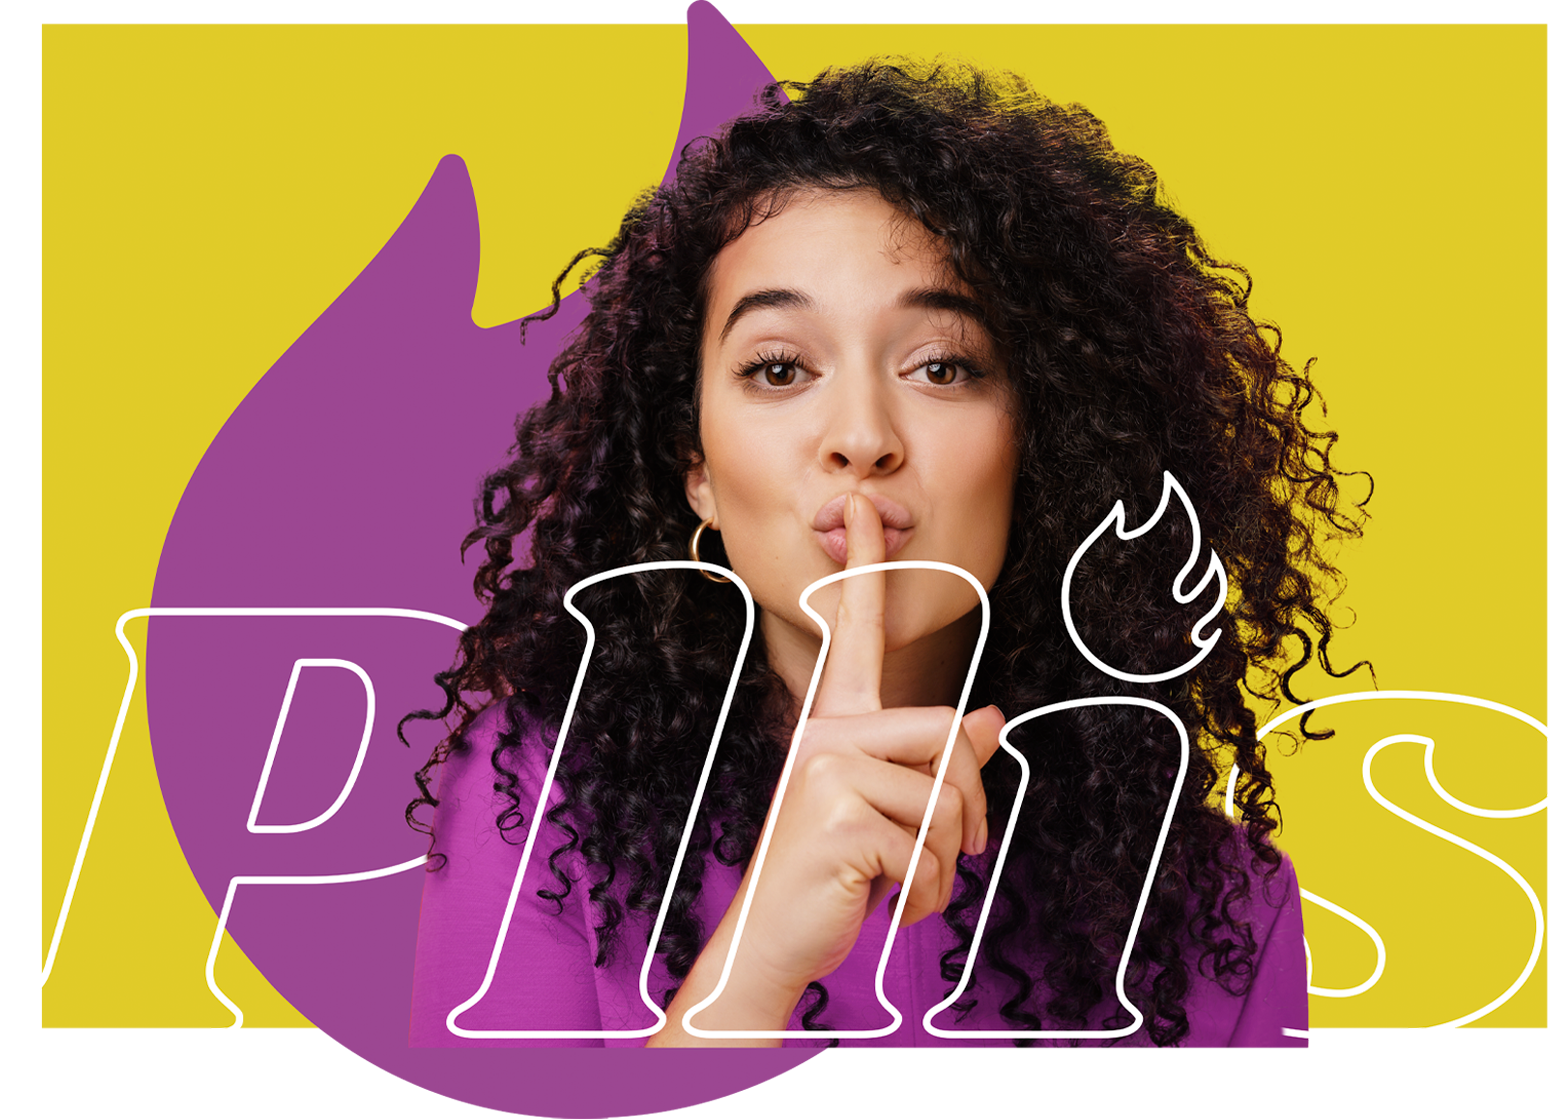
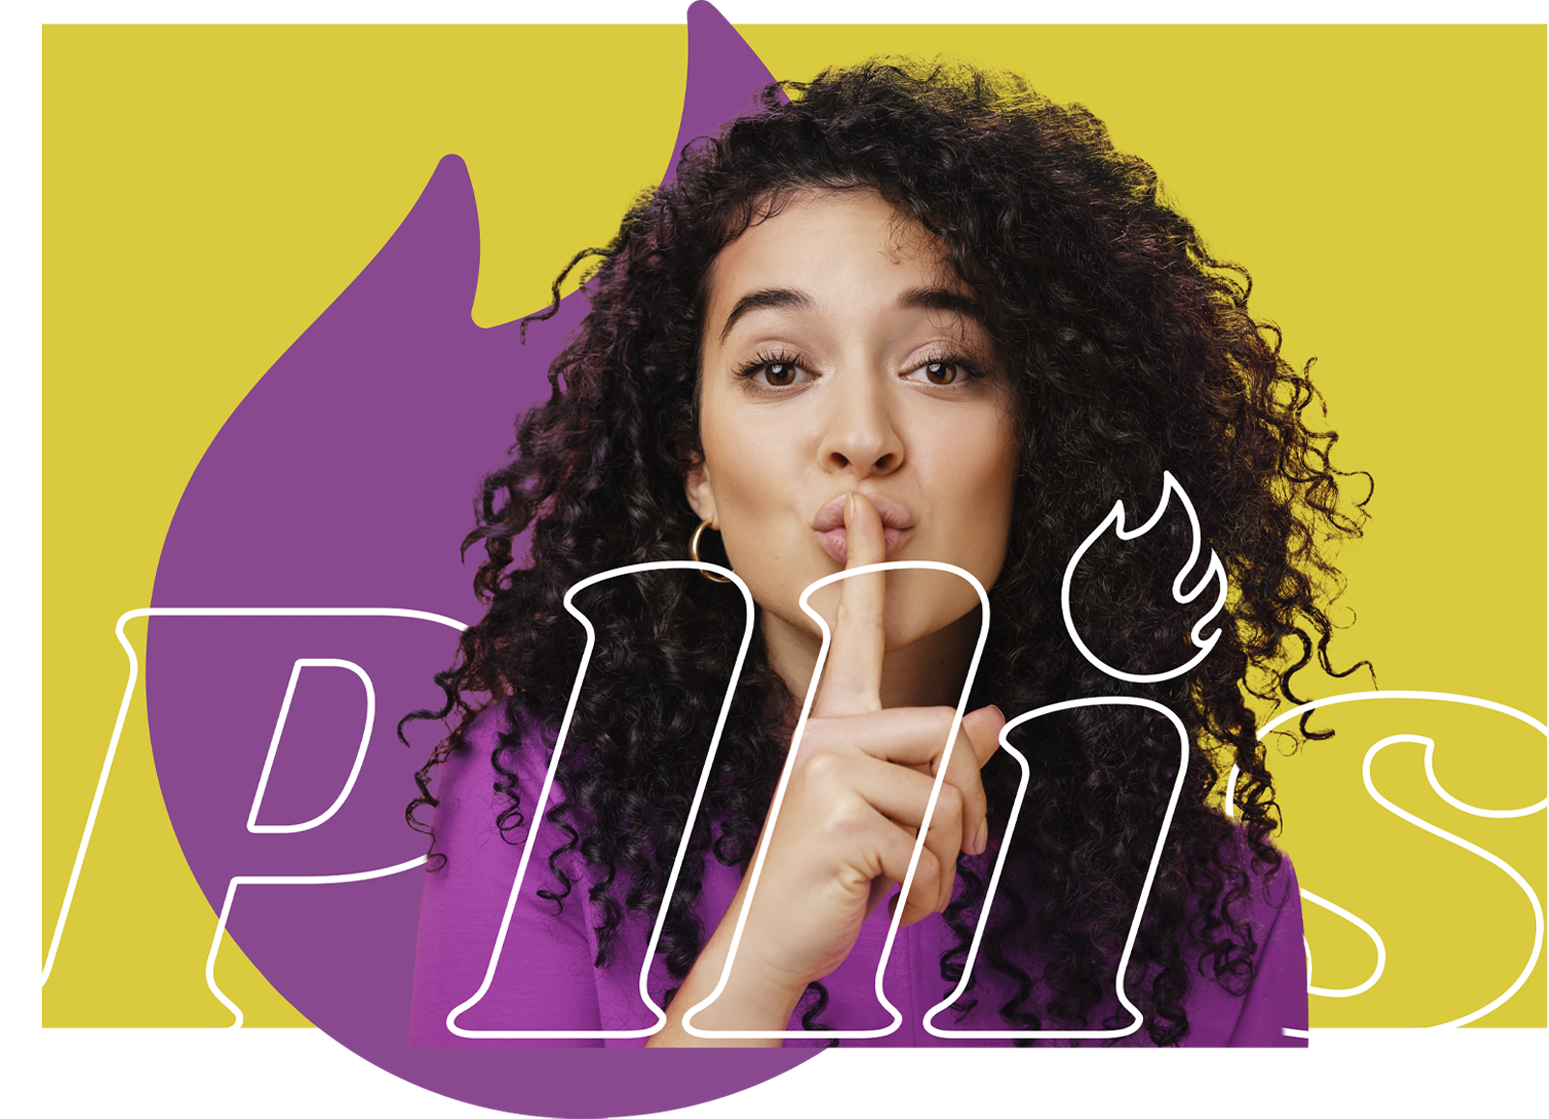
troca cor

Changed region(s): [[0.2789, 0.6685, 0.3719, 0.9115]]

diff --git a/src/app/tela-lojista/tela-lojista.component.min.css b/src/app/tela-lojista/tela-lojista.component.min.css
@@ -1,1 +1,1 @@
-img{max-width:100%}button,.cs-logo-home{cursor:pointer}.cs-acoes{display:flex;justify-content:center;align-items:center;gap:25px;flex-wrap:wrap}.cs-header{display:flex;justify-content:space-between;align-items:center;padding:20px 50px;background-color:#502253;color:#fff}.cs-header img{max-height:50px}.cs-header button{background-color:transparent;border:0}.cs-img__pllis-alt{max-width:40%}.cs-container{max-width:800px;display:flex;flex-direction:column;justify-content:center;gap:25px}.cs-description{display:flex;justify-content:center;align-items:center;gap:75px;flex-wrap:wrap}.cs-description h2{max-width:200px;text-wrap:balance;text-align:end}.cs-description .cs-text{color:#000}.cs-text{font-size:1rem;font-weight:500}.cs-strong{font-weight:700 !important}.cs-strong__caption{font-size:.875rem;font-weight:900 !important;text-wrap:balance}.cs-title,.cs-subtitle,.cs-subtitle__white,.cs-subtitle__pink,.cs-button{font-family:"Shrikhand", serif;font-style:normal;text-wrap:balance;line-height:1}.cs-subtitle,.cs-subtitle__white,.cs-subtitle__pink{font-size:2rem;font-weight:400;color:#e0cb28}.cs-subtitle__white{color:#fff}.cs-subtitle__pink{color:#924a97}.cs-text{font-family:"Roboto", sans-serif;font-style:normal;line-height:1.5;font-weight:200;color:#fff}.cs-text__gap{display:flex;flex-direction:column;gap:25px}[class^="cs-section-"]{display:flex;justify-content:center;align-items:center;width:100%;padding:100px}.cs-cadastrar-loja{display:flex;flex-direction:column;gap:25px;align-items:center;justify-content:center}.cs-cadastrar-loja .cs-button{background-color:#924a97;color:#fff;padding:10px 25px;border-radius:50px;font-size:2rem;border:0;cursor:pointer}.cs-cadastrar-loja .cs-button:hover{background-color:#502253}.cs-sidebar{min-height:max-content;display:flex;flex-direction:column;align-items:center;justify-content:flex-end;gap:10px;max-width:300px;width:100%;background-color:#924a97;padding:20px}.cs-download{background-color:transparent;display:flex;align-items:center;justify-content:center;gap:8px;color:#fff;border-radius:50px;border:1px solid #fff;padding:10px 25px}.cs-download:hover{background-color:#fff;color:#924a97}.cs-download:hover svg{fill:#924a97}.cs-download__text{font-size:.75rem;font-weight:500}.cs-download__store{font-size:1rem;font-weight:600}[class^="cs-subtitle"]{line-height:1.4}.cs-section-1{background-color:#e0cb28;padding:0;justify-content:space-between;align-items:stretch;position:relative;gap:50px;flex-wrap:wrap-reverse}.cs-section-1 .cs-title{position:absolute;font-size:clamp(2rem, 5vw, 5rem);font-weight:500;color:#fff;top:25%;left:8%}.cs-section-1 .cs-title span{background-color:#502253;margin-bottom:10px;display:inline-block}.cs-section-1 .cs-title p:nth-child(1){margin-left:80px}.cs-section-1 .cs-title p:nth-child(2){margin-left:40px}.cs-section-1 img{max-width:70%;max-height:100vh}.cs-section-2{background-color:#502253}.cs-section-2 .cs-container{flex-direction:row;align-items:center;gap:75px;flex-wrap:wrap}.cs-section-2 .cs-container>*{flex:1 1 20%}.cs-section-3{background-color:#e0cb28}.cs-section-3 .cs-container{align-items:center}.cs-section-3 .cs-text{font-size:1rem}@media screen and (max-width: 768px){.cs-img__pllis-alt{max-width:60%}[class^="cs-section-"]{padding:20px}.cs-section-1{padding:0;align-items:stretch;justify-items:stretch}.cs-section-1 img{padding:20px;margin:0 auto}.cs-section-1 .cs-title{position:relative;margin:0 auto;left:0}.cs-section-1 .cs-sidebar{width:100%;min-width:100%}}@media screen and (max-width: 1166px){.cs-section-1 img{margin-left:auto}.cs-section-1 .cs-sidebar{width:100%;min-width:100%}}
+img{max-width:100%}button,.cs-logo-home{cursor:pointer}.cs-acoes{display:flex;justify-content:center;align-items:center;gap:25px;flex-wrap:wrap}.cs-header{display:flex;justify-content:space-between;align-items:center;padding:20px 50px;background-color:#502253;color:#fff}.cs-header img{max-height:50px}.cs-header button{background-color:transparent;border:0}.cs-img__pllis-alt{max-width:40%}.cs-container{max-width:800px;display:flex;flex-direction:column;justify-content:center;gap:25px}.cs-description{display:flex;justify-content:center;align-items:center;gap:75px;flex-wrap:wrap}.cs-description h2{max-width:200px;text-wrap:balance;text-align:end}.cs-description .cs-text{color:#000}.cs-text{font-size:1rem;font-weight:500}.cs-strong{font-weight:700 !important}.cs-strong__caption{font-size:.875rem;font-weight:900 !important;text-wrap:balance}.cs-title,.cs-subtitle,.cs-subtitle__white,.cs-subtitle__pink,.cs-button{font-family:"Shrikhand", serif;font-style:normal;text-wrap:balance;line-height:1}.cs-subtitle,.cs-subtitle__white,.cs-subtitle__pink{font-size:2rem;font-weight:400;color:#d9ca3f}.cs-subtitle__white{color:#fff}.cs-subtitle__pink{color:#924a97}.cs-text{font-family:"Roboto", sans-serif;font-style:normal;line-height:1.5;font-weight:200;color:#fff}.cs-text__gap{display:flex;flex-direction:column;gap:25px}[class^="cs-section-"]{display:flex;justify-content:center;align-items:center;width:100%;padding:100px}.cs-cadastrar-loja{display:flex;flex-direction:column;gap:25px;align-items:center;justify-content:center}.cs-cadastrar-loja .cs-button{background-color:#924a97;color:#fff;padding:10px 25px;border-radius:50px;font-size:2rem;border:0;cursor:pointer}.cs-cadastrar-loja .cs-button:hover{background-color:#502253}.cs-sidebar{min-height:max-content;display:flex;flex-direction:column;align-items:center;justify-content:flex-end;gap:10px;max-width:300px;width:100%;background-color:#924a97;padding:20px}.cs-download{background-color:transparent;display:flex;align-items:center;justify-content:center;gap:8px;color:#fff;border-radius:50px;border:1px solid #fff;padding:10px 25px}.cs-download:hover{background-color:#fff;color:#924a97}.cs-download:hover svg{fill:#924a97}.cs-download__text{font-size:.75rem;font-weight:500}.cs-download__store{font-size:1rem;font-weight:600}[class^="cs-subtitle"]{line-height:1.4}.cs-section-1{background-color:#d9ca3f;padding:0;justify-content:space-between;align-items:stretch;position:relative;gap:50px;flex-wrap:wrap-reverse}.cs-section-1 .cs-title{position:absolute;font-size:clamp(2rem, 5vw, 5rem);font-weight:500;color:#fff;top:25%;left:8%}.cs-section-1 .cs-title span{background-color:#502253;margin-bottom:10px;display:inline-block}.cs-section-1 .cs-title p:nth-child(1){margin-left:80px}.cs-section-1 .cs-title p:nth-child(2){margin-left:40px}.cs-section-1 img{max-width:70%;max-height:100vh}.cs-section-2{background-color:#502253}.cs-section-2 .cs-container{flex-direction:row;align-items:center;gap:75px;flex-wrap:wrap}.cs-section-2 .cs-container>*{flex:1 1 20%}.cs-section-3{background-color:#d9ca3f}.cs-section-3 .cs-container{align-items:center}.cs-section-3 .cs-text{font-size:1rem}@media screen and (max-width: 768px){.cs-img__pllis-alt{max-width:60%}[class^="cs-section-"]{padding:20px}.cs-section-1{padding:0;align-items:stretch;justify-items:stretch}.cs-section-1 img{padding:20px;margin:0 auto}.cs-section-1 .cs-title{position:relative;margin:0 auto;left:0}.cs-section-1 .cs-sidebar{width:100%;min-width:100%}}@media screen and (max-width: 1166px){.cs-section-1 img{margin-left:auto}.cs-section-1 .cs-sidebar{width:100%;min-width:100%}}

diff --git a/src/app/landing-page/landing-page.component.min.css b/src/app/landing-page/landing-page.component.min.css
@@ -1,1 +1,1 @@
-img{max-width:100%}button,.cs-logo-home{cursor:pointer}.cs-acoes{display:flex;justify-content:center;align-items:center;gap:25px;flex-wrap:wrap}.cs-header{display:flex;justify-content:space-between;align-items:center;padding:20px 50px;background-color:#502253;color:#fff}.cs-header img{max-height:50px}.cs-header button{background-color:transparent;border:0}.cs-img__pllis-alt{max-width:40%}.cs-container{max-width:800px;display:flex;flex-direction:column;justify-content:center;gap:25px}.cs-description{display:flex;justify-content:center;align-items:center;gap:75px;flex-wrap:wrap}.cs-description h2{max-width:200px;text-wrap:balance;text-align:end}.cs-description .cs-text{color:#000}.cs-text{font-size:1rem;font-weight:500}.cs-strong{font-weight:700 !important}.cs-strong__caption{font-size:.875rem;font-weight:900 !important;text-wrap:balance}.cs-title,.cs-subtitle,.cs-subtitle__white,.cs-subtitle__pink{font-family:"Shrikhand", serif;font-style:normal;text-wrap:balance;line-height:1}.cs-subtitle,.cs-subtitle__white,.cs-subtitle__pink{font-size:2rem;font-weight:400;color:#e0cb28}.cs-subtitle__white{color:#fff}.cs-subtitle__pink{color:#924a97}.cs-text{font-family:"Roboto", sans-serif;font-style:normal;line-height:1.5;font-weight:200;color:#fff}.cs-text__gap{display:flex;flex-direction:column;gap:25px}[class^="cs-section-"]{display:flex;justify-content:center;align-items:center;width:100%;padding:100px}.cs-sidebar{min-height:max-content;display:flex;flex-direction:column;align-items:center;justify-content:flex-end;gap:10px;max-width:300px;width:100%;background-color:#924a97;padding:20px}.cs-download{background-color:transparent;display:flex;align-items:center;justify-content:center;gap:8px;color:#fff;border-radius:50px;border:1px solid #fff;padding:10px 25px}.cs-download:hover{background-color:#fff;color:#924a97}.cs-download:hover svg{fill:#924a97}.cs-download__text{font-size:.75rem;font-weight:500}.cs-download__store{font-size:1rem;font-weight:600}.cs-section-1{background-color:#e0cb28;padding:0;justify-content:space-between;align-items:stretch;position:relative;gap:50px;flex-wrap:wrap-reverse}.cs-section-1 .cs-title{position:absolute;font-size:clamp(2rem, 3vw, 3.375rem);font-weight:500;color:#fff;top:25%;left:8%}.cs-section-1 .cs-title span{background-color:#502253;margin-bottom:10px;display:inline-block}.cs-section-1 .cs-title p:nth-child(1){margin-left:80px}.cs-section-1 .cs-title p:nth-child(2){margin-left:40px}.cs-section-1 img{max-width:70%;max-height:100vh}.cs-section-2{background-color:#502253}.cs-section-2 .cs-container{flex-direction:row;align-items:center;gap:75px;flex-wrap:wrap}.cs-section-2 .cs-container>*{flex:1 1 20%}.cs-section-3{background-color:#e0cb28}.cs-section-3 .cs-container{align-items:center}.cs-section-4{background-color:#924a97}.cs-section-4 .cs-title{font-size:3rem;font-weight:500;color:#e0cb28}.cs-section-4 .cs-subtitle,.cs-section-4 .cs-subtitle__white,.cs-section-4 .cs-subtitle__pink{font-size:1.5rem}@media screen and (max-width: 768px){.cs-img__pllis-alt{max-width:60%}[class^="cs-section-"]{padding:20px}.cs-section-1{padding:0;align-items:stretch;justify-items:stretch}.cs-section-1 img{padding:20px;margin:0 auto}.cs-section-1 .cs-title{position:relative;margin:0 auto;left:0}.cs-section-1 .cs-sidebar{width:100%;min-width:100%}}@media screen and (max-width: 1166px){.cs-section-1 img{margin-left:auto}.cs-section-1 .cs-sidebar{width:100%;min-width:100%}}
+img{max-width:100%}button,.cs-logo-home{cursor:pointer}.cs-acoes{display:flex;justify-content:center;align-items:center;gap:25px;flex-wrap:wrap}.cs-header{display:flex;justify-content:space-between;align-items:center;padding:20px 50px;background-color:#502253;color:#fff}.cs-header img{max-height:50px}.cs-header button{background-color:transparent;border:0}.cs-img__pllis-alt{max-width:40%}.cs-container{max-width:800px;display:flex;flex-direction:column;justify-content:center;gap:25px}.cs-description{display:flex;justify-content:center;align-items:center;gap:75px;flex-wrap:wrap}.cs-description h2{max-width:200px;text-wrap:balance;text-align:end}.cs-description .cs-text{color:#000}.cs-text{font-size:1rem;font-weight:500}.cs-strong{font-weight:700 !important}.cs-strong__caption{font-size:.875rem;font-weight:900 !important;text-wrap:balance}.cs-title,.cs-subtitle,.cs-subtitle__white,.cs-subtitle__pink{font-family:"Shrikhand", serif;font-style:normal;text-wrap:balance;line-height:1}.cs-subtitle,.cs-subtitle__white,.cs-subtitle__pink{font-size:2rem;font-weight:400;color:#d9ca3f}.cs-subtitle__white{color:#fff}.cs-subtitle__pink{color:#924a97}.cs-text{font-family:"Roboto", sans-serif;font-style:normal;line-height:1.5;font-weight:200;color:#fff}.cs-text__gap{display:flex;flex-direction:column;gap:25px}[class^="cs-section-"]{display:flex;justify-content:center;align-items:center;width:100%;padding:100px}.cs-sidebar{min-height:max-content;display:flex;flex-direction:column;align-items:center;justify-content:flex-end;gap:10px;max-width:300px;width:100%;background-color:#924a97;padding:20px}.cs-download{background-color:transparent;display:flex;align-items:center;justify-content:center;gap:8px;color:#fff;border-radius:50px;border:1px solid #fff;padding:10px 25px}.cs-download:hover{background-color:#fff;color:#924a97}.cs-download:hover svg{fill:#924a97}.cs-download__text{font-size:.75rem;font-weight:500}.cs-download__store{font-size:1rem;font-weight:600}.cs-section-1{background-color:#d9ca3f;padding:0;justify-content:space-between;align-items:stretch;position:relative;gap:50px;flex-wrap:wrap-reverse}.cs-section-1 .cs-title{position:absolute;font-size:clamp(2rem, 3vw, 3.375rem);font-weight:500;color:#fff;top:25%;left:8%}.cs-section-1 .cs-title span{background-color:#502253;margin-bottom:10px;display:inline-block}.cs-section-1 .cs-title p:nth-child(1){margin-left:80px}.cs-section-1 .cs-title p:nth-child(2){margin-left:40px}.cs-section-1 img{max-width:70%;max-height:100vh}.cs-section-2{background-color:#502253}.cs-section-2 .cs-container{flex-direction:row;align-items:center;gap:75px;flex-wrap:wrap}.cs-section-2 .cs-container>*{flex:1 1 20%}.cs-section-3{background-color:#d9ca3f}.cs-section-3 .cs-container{align-items:center}.cs-section-4{background-color:#924a97}.cs-section-4 .cs-title{font-size:3rem;font-weight:500;color:#d9ca3f}.cs-section-4 .cs-subtitle,.cs-section-4 .cs-subtitle__white,.cs-section-4 .cs-subtitle__pink{font-size:1.5rem}@media screen and (max-width: 768px){.cs-img__pllis-alt{max-width:60%}[class^="cs-section-"]{padding:20px}.cs-section-1{padding:0;align-items:stretch;justify-items:stretch}.cs-section-1 img{padding:20px;margin:0 auto}.cs-section-1 .cs-title{position:relative;margin:0 auto;left:0}.cs-section-1 .cs-sidebar{width:100%;min-width:100%}}@media screen and (max-width: 1166px){.cs-section-1 img{margin-left:auto}.cs-section-1 .cs-sidebar{width:100%;min-width:100%}}

diff --git a/src/app/tela-abertuta/tela-abertuta.component.min.css b/src/app/tela-abertuta/tela-abertuta.component.min.css
@@ -1,1 +1,1 @@
-:host{display:flex;justify-content:center;align-items:center;min-height:100vh;padding:50px;background-color:#502253;font-family:"Shrikhand", serif;font-style:normal}img{max-width:100%}a{text-decoration:none}.c-container{width:100%;height:100%;background-color:#924a97;border-radius:50px;padding:50px 100px;display:flex;flex-wrap:wrap;gap:100px 50px;align-items:stretch;justify-content:stretch}.c-container__left{flex:3 1 auto;display:flex;flex-direction:column;justify-content:space-evenly;gap:50px 0}.c-container__right{flex:2 1 300px;display:flex;justify-content:center}.c-text{color:#fff;font-size:clamp(2rem, 2vw, 3.375rem);font-weight:500;text-wrap:balance}.c-button{background-color:#e0cb28;color:#502253;font-size:1.5rem;font-weight:500;padding:10px 40px;border-radius:50px;cursor:pointer;transition:background-color 0.3s}.c-button:hover{background-color:#f0e697}.c-button__group{display:flex;flex-wrap:wrap;gap:30px}.c-logo{max-width:50% !important}@media (max-width: 768px){:host{padding:20px}.c-container{padding:20px;border-radius:20px}}
+:host{display:flex;justify-content:center;align-items:center;min-height:100vh;padding:50px;background-color:#502253;font-family:"Shrikhand", serif;font-style:normal}img{max-width:100%}a{text-decoration:none}.c-container{width:100%;height:100%;background-color:#924a97;border-radius:50px;padding:50px 100px;display:flex;flex-wrap:wrap;gap:100px 50px;align-items:stretch;justify-content:stretch}.c-container__left{flex:3 1 auto;display:flex;flex-direction:column;justify-content:space-evenly;gap:50px 0}.c-container__right{flex:2 1 300px;display:flex;justify-content:center}.c-text{color:#fff;font-size:clamp(2rem, 2vw, 3.375rem);font-weight:500;text-wrap:balance}.c-button{background-color:#d9ca3f;color:#502253;font-size:1.5rem;font-weight:500;padding:10px 40px;border-radius:50px;cursor:pointer;transition:background-color 0.3s}.c-button:hover{background-color:#eee7a9}.c-button__group{display:flex;flex-wrap:wrap;gap:30px}.c-logo{max-width:50% !important}@media (max-width: 768px){:host{padding:20px}.c-container{padding:20px;border-radius:20px}}

diff --git a/src/app/landing-page/landing-page.component.css b/src/app/landing-page/landing-page.component.css
@@ -87,7 +87,7 @@ button, .cs-logo-home {
 .cs-subtitle, .cs-subtitle__white, .cs-subtitle__pink {
   font-size: 2rem;
   font-weight: 400;
-  color: #e0cb28;
+  color: #d9ca3f;
 }
 
 .cs-subtitle__white {
@@ -165,7 +165,7 @@ button, .cs-logo-home {
 }
 
 .cs-section-1 {
-  background-color: #e0cb28;
+  background-color: #d9ca3f;
   padding: 0;
   justify-content: space-between;
   align-items: stretch;
@@ -218,7 +218,7 @@ button, .cs-logo-home {
 }
 
 .cs-section-3 {
-  background-color: #e0cb28;
+  background-color: #d9ca3f;
 }
 
 .cs-section-3 .cs-container {
@@ -232,7 +232,7 @@ button, .cs-logo-home {
 .cs-section-4 .cs-title {
   font-size: 3rem;
   font-weight: 500;
-  color: #e0cb28;
+  color: #d9ca3f;
 }
 
 .cs-section-4 .cs-subtitle, .cs-section-4 .cs-subtitle__white, .cs-section-4 .cs-subtitle__pink {

diff --git a/src/app/landing-page/landing-page.component.scss b/src/app/landing-page/landing-page.component.scss
@@ -87,7 +87,7 @@ button, .cs-logo-home {
 .cs-subtitle {
     font-size: 2rem;
     font-weight: 400;
-    color: #e0cb28;
+    color: #d9ca3f;
 }
 
 .cs-subtitle__white {
@@ -167,7 +167,7 @@ button, .cs-logo-home {
 }
 
 .cs-section-1 {
-    background-color: #e0cb28;
+    background-color: #d9ca3f;
     padding: 0;
     justify-content: space-between;
     align-items: stretch;
@@ -220,7 +220,7 @@ button, .cs-logo-home {
 }
 
 .cs-section-3 {
-    background-color: #e0cb28;
+    background-color: #d9ca3f;
 
     .cs-container {
         align-items: center;
@@ -233,7 +233,7 @@ button, .cs-logo-home {
     .cs-title {
         font-size: 3rem;
         font-weight: 500;
-        color: #e0cb28;
+        color: #d9ca3f;
     }
 
     .cs-subtitle {

diff --git a/src/app/tela-lojista/tela-lojista.component.css b/src/app/tela-lojista/tela-lojista.component.css
@@ -87,7 +87,7 @@ button, .cs-logo-home {
 .cs-subtitle, .cs-subtitle__white, .cs-subtitle__pink {
   font-size: 2rem;
   font-weight: 400;
-  color: #e0cb28;
+  color: #d9ca3f;
 }
 
 .cs-subtitle__white {
@@ -191,7 +191,7 @@ button, .cs-logo-home {
 }
 
 .cs-section-1 {
-  background-color: #e0cb28;
+  background-color: #d9ca3f;
   padding: 0;
   justify-content: space-between;
   align-items: stretch;
@@ -244,7 +244,7 @@ button, .cs-logo-home {
 }
 
 .cs-section-3 {
-  background-color: #e0cb28;
+  background-color: #d9ca3f;
 }
 
 .cs-section-3 .cs-container {

diff --git a/src/app/tela-lojista/tela-lojista.component.scss b/src/app/tela-lojista/tela-lojista.component.scss
@@ -87,7 +87,7 @@ button, .cs-logo-home {
 .cs-subtitle {
     font-size: 2rem;
     font-weight: 400;
-    color: #e0cb28;
+    color: #d9ca3f;
 }
 
 .cs-subtitle__white {
@@ -193,7 +193,7 @@ button, .cs-logo-home {
 }
 
 .cs-section-1 {
-    background-color: #e0cb28;
+    background-color: #d9ca3f;
     padding: 0;
     justify-content: space-between;
     align-items: stretch;
@@ -246,7 +246,7 @@ button, .cs-logo-home {
 }
 
 .cs-section-3 {
-    background-color: #e0cb28;
+    background-color: #d9ca3f;
 
     .cs-container {
         align-items: center;

diff --git a/src/app/tela-abertuta/tela-abertuta.component.scss b/src/app/tela-abertuta/tela-abertuta.component.scss
@@ -52,7 +52,7 @@ a {
 }
 
 .c-button {
-    background-color: #e0cb28;
+    background-color: #d9ca3f;
     color: #502253;
     font-size: 1.5rem;
     font-weight: 500;
@@ -62,7 +62,7 @@ a {
     transition: background-color 0.3s;
 
     &:hover {
-        background-color: lighten(#e0cb28, 25%);
+        background-color: lighten(#d9ca3f, 25%);
     }
 
     &__group {

diff --git a/src/app/tela-abertuta/tela-abertuta.component.css b/src/app/tela-abertuta/tela-abertuta.component.css
@@ -52,7 +52,7 @@ a {
 }
 
 .c-button {
-  background-color: #e0cb28;
+  background-color: #d9ca3f;
   color: #502253;
   font-size: 1.5rem;
   font-weight: 500;
@@ -63,7 +63,7 @@ a {
 }
 
 .c-button:hover {
-  background-color: #f0e697;
+  background-color: #eee7a9;
 }
 
 .c-button__group {
